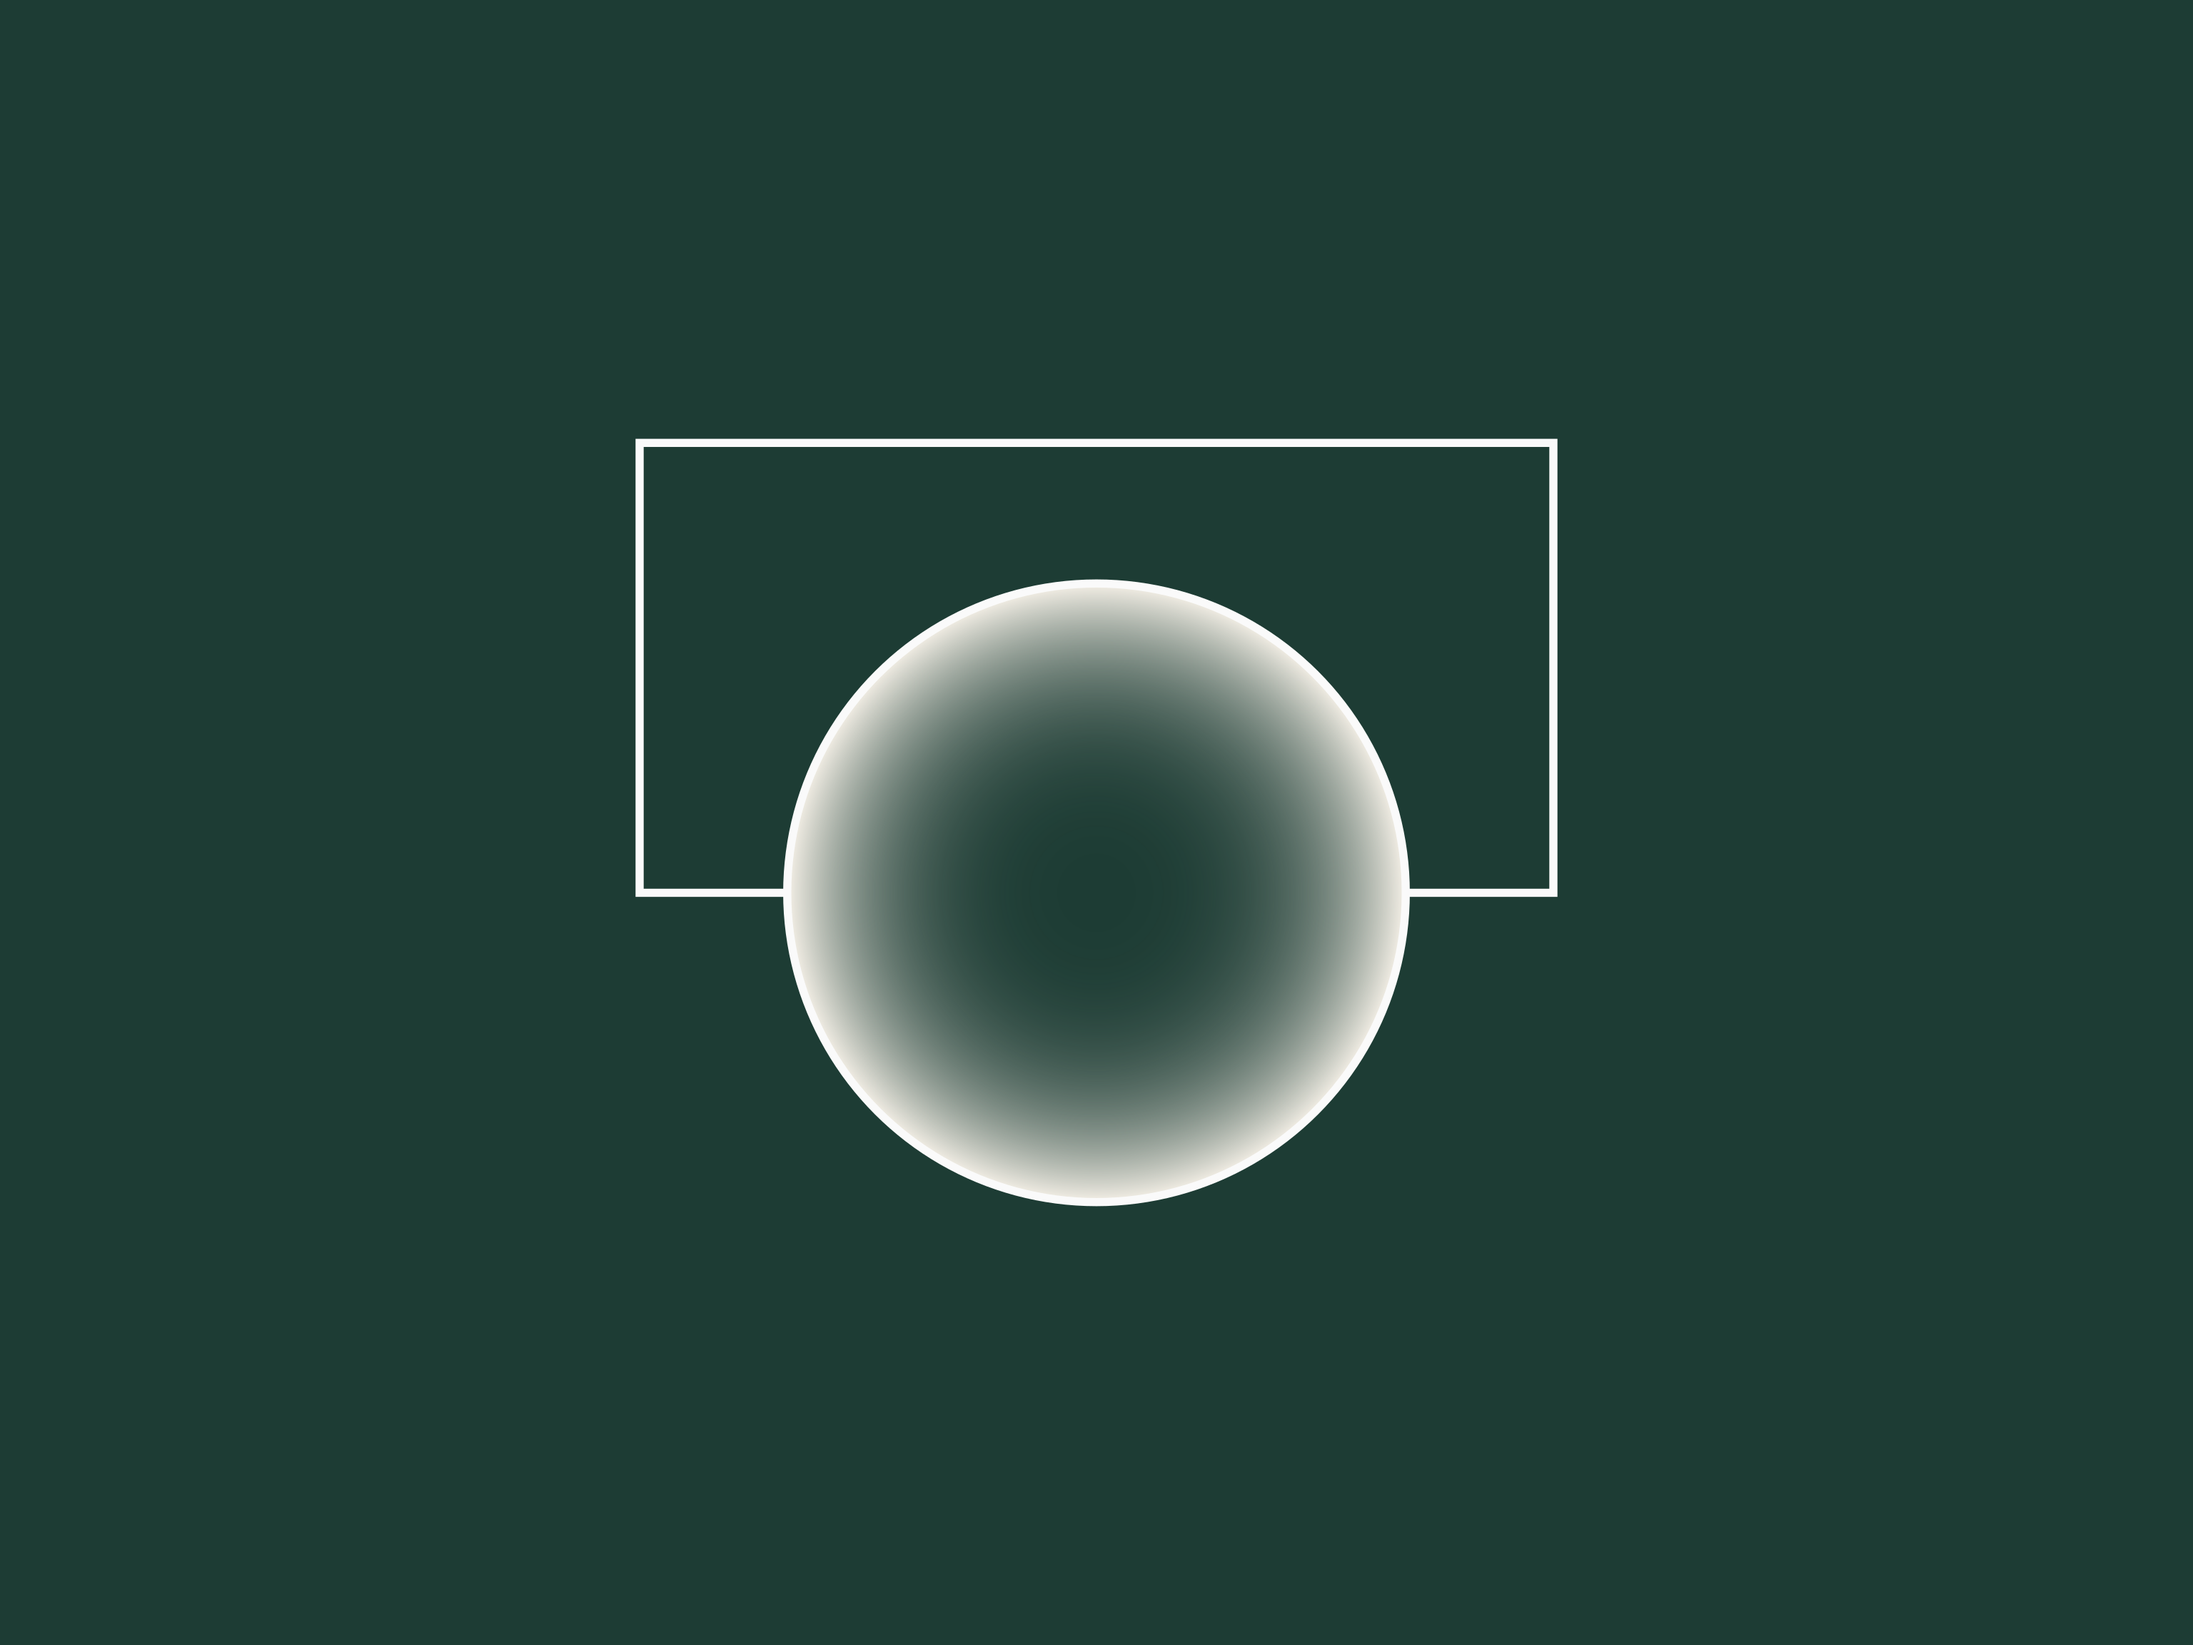
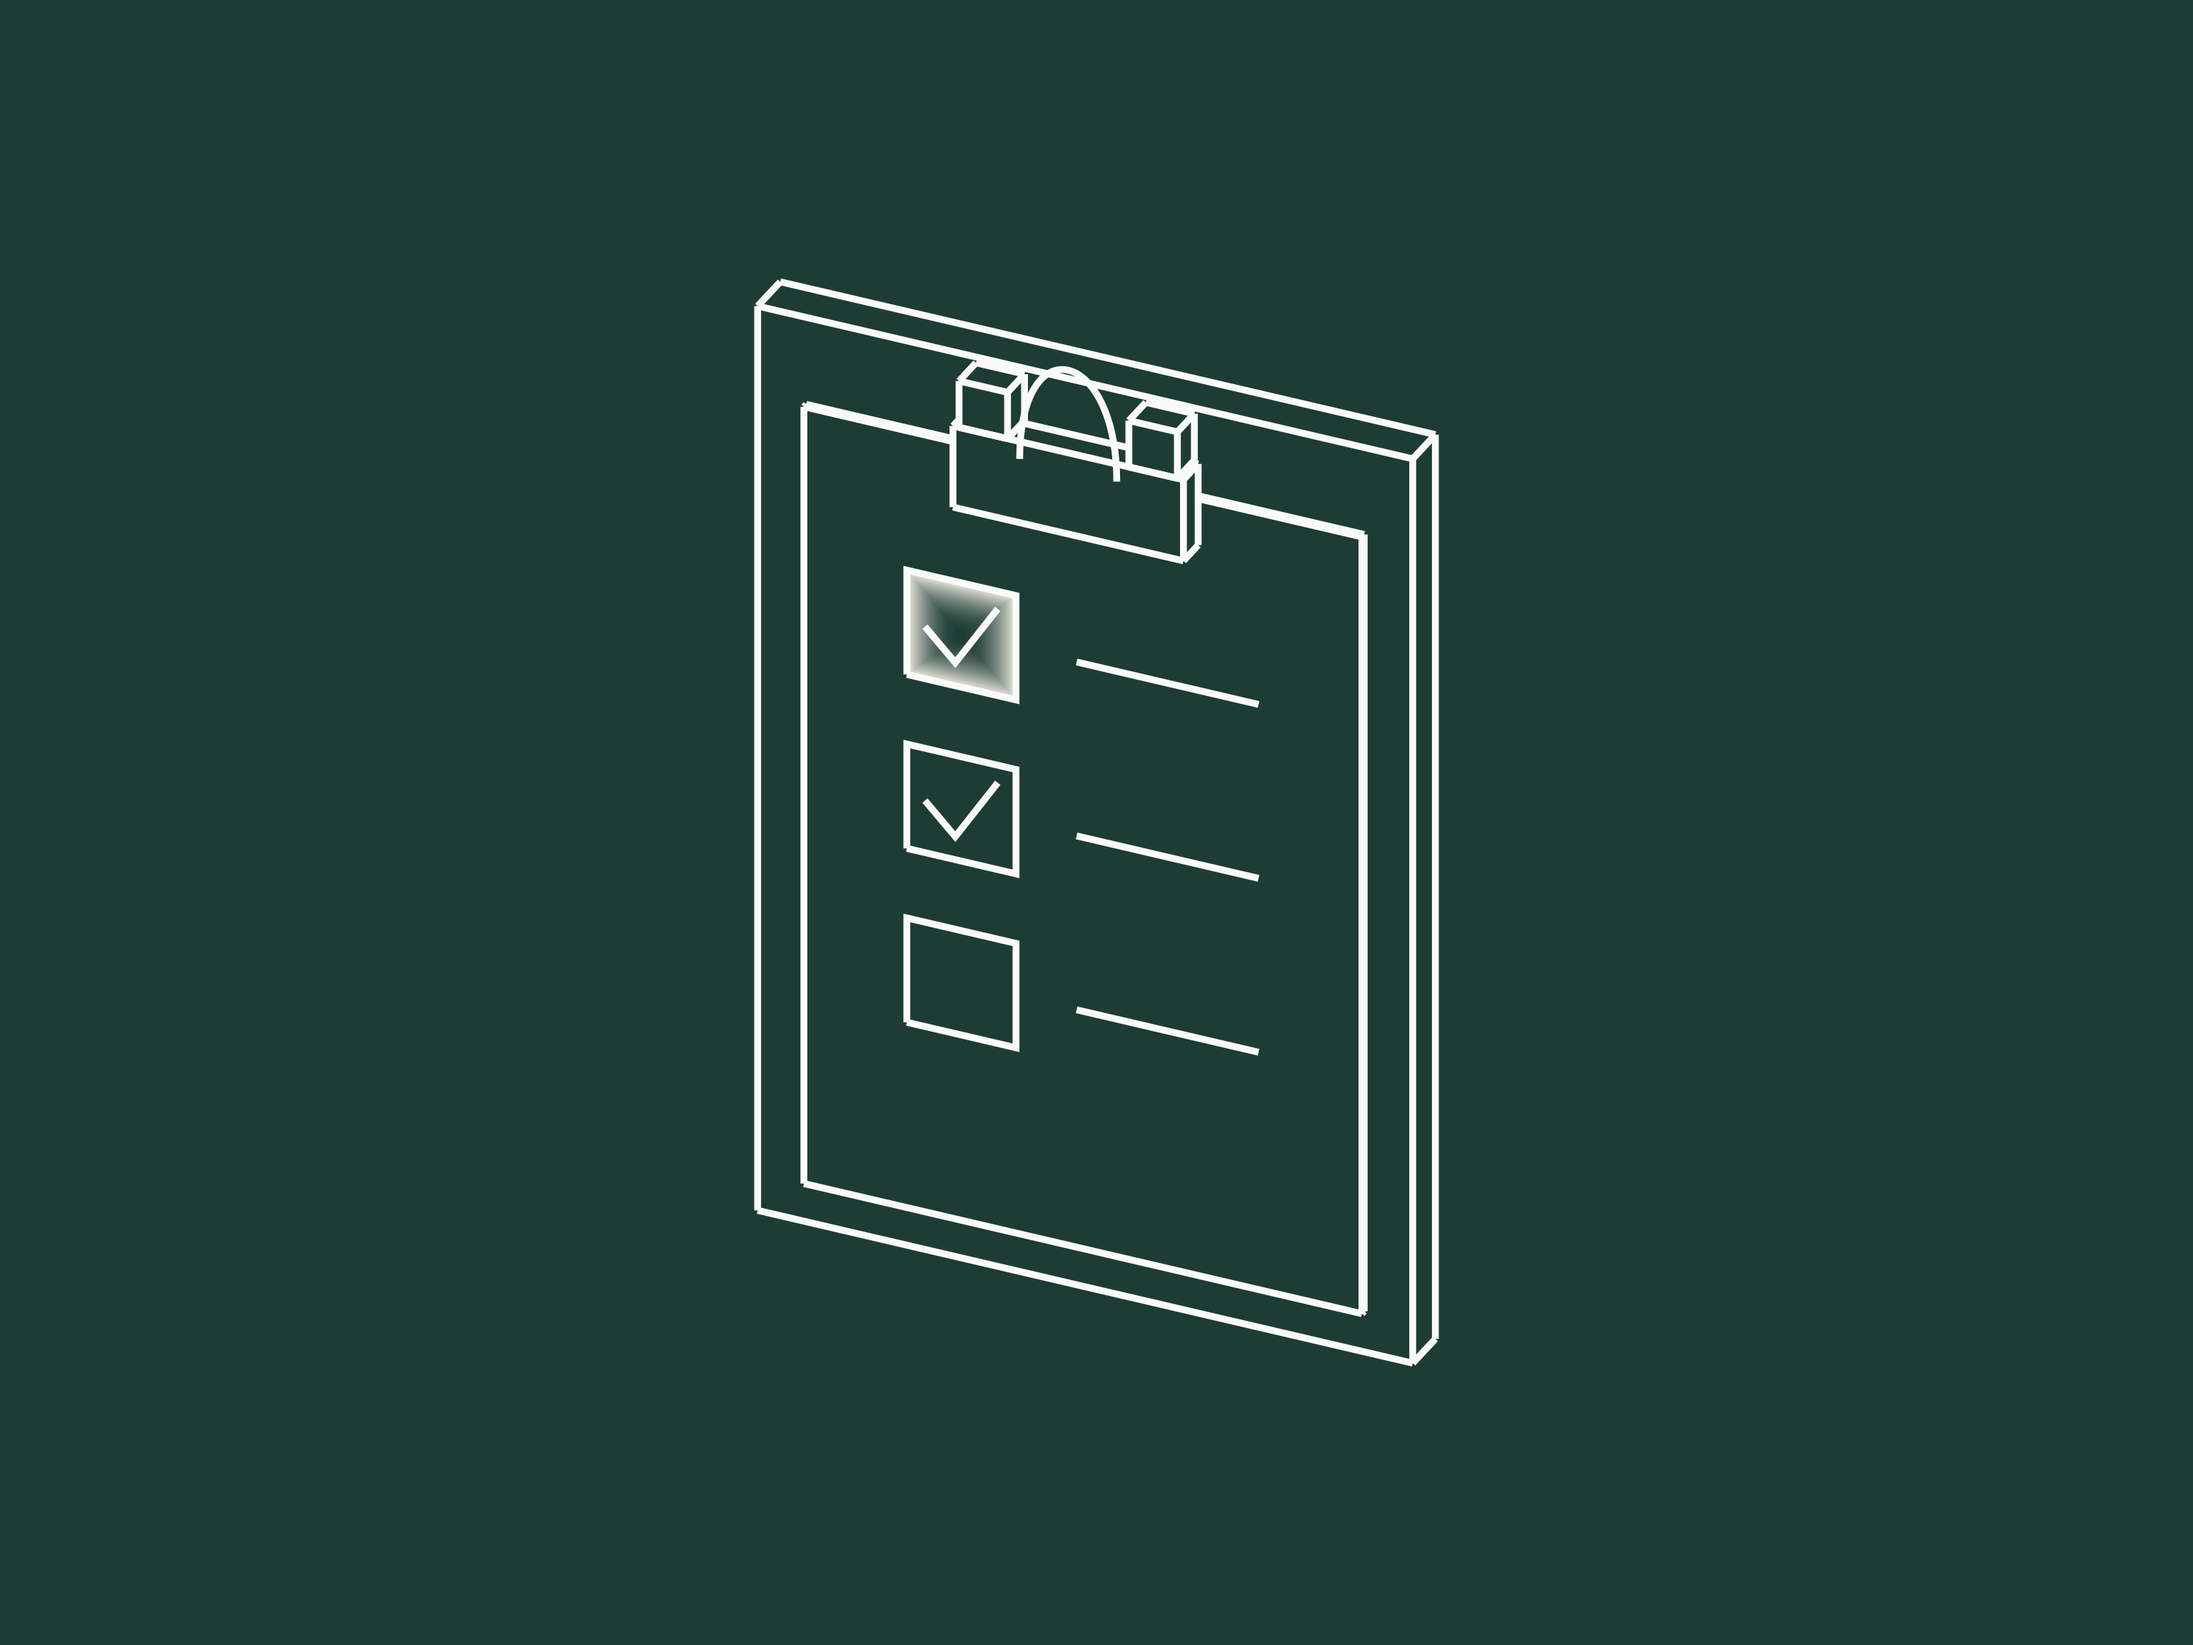
Clarify evaluations with a physical checklist clipboard

Changed region(s): [[0.2812, 0.1562, 0.7188, 0.8438]]

diff --git a/docs/design/blog-illustrations-2026-11-17/write-the-evals-before-the-prompt/decision.md b/docs/design/blog-illustrations-2026-11-17/write-the-evals-before-the-prompt/decision.md
@@ -1,17 +1,17 @@
 # Write the evals before the prompt
 
-The article is about defining a measurable acceptance standard before building an AI system. A fixed measuring fixture touches a spherical specimen at two opposite poles: the measure exists first, and the result is tested against it.
-
-Read the complete article at `src/content/blog/bodies.json`, key `write-the-evals-before-the-prompt`, along with the title and summary. The user's revision requested a clearer, more varied silhouette; this recipe replaces the earlier pair of flat sheets, which was too similar to other covers. It is custom world-space geometry built with the requested AtomsAI Illustration Skill v2. `orbit` supplies only framing, not geometry.
+The article explains that the evaluation checklist is the specification, established before the system is built. A recognizable clipboard carries three check boxes, two checkmarks and three blank rules. It contains no words or fabricated measurements. This replaces the earlier sphere and gauge with an immediately recognizable object.
 
 ## Construction
 
-The sample is a real sphere of radius 44, with three equal orthogonal axes. Its measuring fixture is a physical planar outline: opposite contact points 88 units apart, equal 21-unit jaws, equal 64-unit arms, and a 130-unit crossbar. The fixture's plane faces the neutral camera so the contacts read clearly, while all parts retain world coordinates and rotate together. The fixture is a measuring diagram, not a traced cylinder or camera-facing replacement for the sphere.
+The board is a complete 108 × 156 × 8 solid. A 92 × 134 × 0.8 sheet rests exactly on its front face, inset around all edges. The top clamp's back contacts the paper; two mounting feet attach to exposed board above the paper and share the clamp's upper edge. A wire handle terminates on the clamp's front face. The whole object is rigidly posed by 20 degrees around its vertical axis, retaining a consistent orthographic perspective and visible board thickness.
+
+Only the first printed checkbox is highlighted. It is separated from the clamp by 16 units and carries an outward face normal. This avoids painting a broad paper highlight over the clip in oblique views, and the highlight disappears on rear views. All marks occupy the paper's physical front plane with tiny rendering offsets.
 
 ## Review
 
-Selected the neutral Dark export. Inspected the new eight-view contact sheet beside the current Dark and Light reference at 300 px viewports. The compact circle-and-gauge silhouette is distinct from the other sheets, apertures and cube-based covers. One sphere carries the shared radial fade. Its two physical contact points meet the jaw endpoints exactly. In oblique, back and underside views, true depth occlusion hides or reveals the fixture as the geometry turns; the sphere remains a real spherical surface. No gaps at contacts, duplicate strokes, mesh edges or external/raster content were observed.
+Read the complete original article in `src/content/blog/bodies.json`. Used the requested current scene renderer and geometry primitives; `built-in-your-stack` provides framing only. The root agent applies the retained background palette, Paper/Cream gradient and thinner 1.6-unit final linework.
 
-Concept assertions verify equal sphere radii, exact contact distances, symmetric arms and jaws, and the crossbar span. All eight shared-renderer mechanical checks pass. Hidden segments are omitted. This review approves the geometry using the unmodified reference renderer; the root agent will apply the user's Paper/Cream line and highlight colors on Deep Green and deliver responsive vector art. That user-directed palette revision supersedes the original Iris-only guideline. Final recolored exports and page crops are reviewed by the parent.
+Inspected all eight original-renderer views in Dark and Light. The neutral view reads clearly as a clipboard with a checklist, rather than a flat icon. Oblique and underside views show the board and sheet thickness, connected clamp and handle, and markings that remain on the sheet. The back view correctly shows the bare rear board, with no checks or highlight bleeding through. The selected region stays clear of clip geometry. Three boxes and exactly two checkmarks remain visible on the front; no duplicate strokes, exposed mesh, impossible overlaps, detached clip pieces or text were observed.
 
-No interactive animation or live p5 integration was requested or tested.
+Concept assertions check board front/back, paper contact, clamp contact, mounting-foot attachment, handle endpoints, row spacing, checkmark count and the highlight's separation from the clip. All eight renderer checks pass. Parent integration handles final recoloring and page review. No animation or interactive gallery testing was requested.
